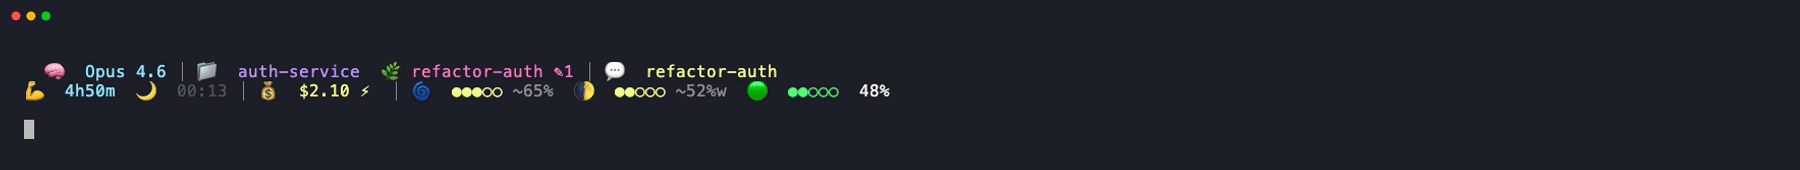
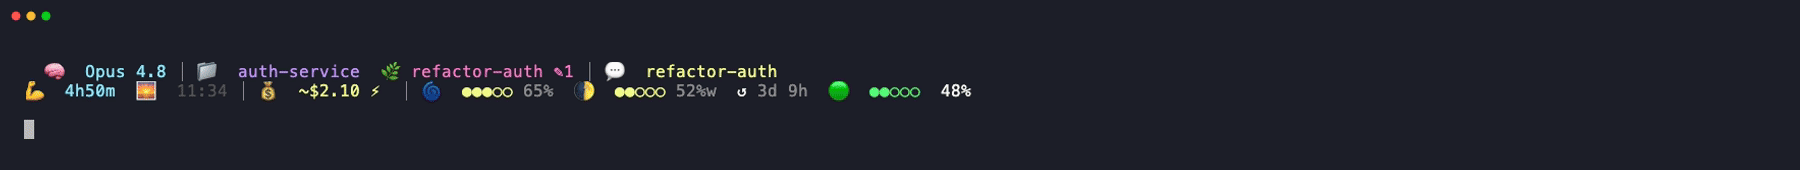
feat: live usage from rate_limits (v0.6.0) (#8)
* feat: read live usage from rate_limits instead of estimating

Claude Code exposes the real /usage data (5h and 7d windows) on the
statusline stdin via rate_limits. Read it directly instead of summing
local JSONL tokens against a guessed per-plan quota.

This drops the ~ approximation and the manual calibration step: the bars
now match /usage exactly, and the weekly reset is an exact countdown from
seven_day.resets_at. Removes compute_usage, the async cache and lockfiles,
the per-plan quotas, and the CCSL_SESSION_QUOTA_TOKENS, CCSL_WEEK_QUOTA_TOKENS
and CCSL_USAGE_TTL vars. CCSL_PLAN now only toggles the theoretical cost prefix.

Each window renders independently and is hidden when absent. Hardens
rendering along the way: JSON-derived fields are stripped of control
characters and printed with %s instead of %b to prevent terminal escape
injection, malformed input degrades to defaults, and the dot-bar builder
is shared between the usage and context segments.

* docs: regenerate demo gif and preview for v0.6.0

The loop now injects rate_limits into the mock JSON (real session/week
percentages and a weekly reset countdown) instead of the removed token
cache, and uses the current model name.

* chore: release v0.6.0

diff --git a/README.md b/README.md
@@ -33,7 +33,7 @@ Two lines — identity on top, metrics below. Long session names never push anyt
 - 🎯 **tasks** — pending/in-progress/done for the current session's `TodoWrite` list (`1⚙ 2✓`). Falls back to 📋 code markers (`TODO / FIXME / XXX / HACK`) when no session tasks exist
 - 🚀 **elapsed** — how long you've been at it, with an emoji that evolves every stage
 - 💰 **cost** — session spend, colored by tier. ⚡ flashes when it grows
-- 🌊 **plan usage** — session bar (🌊→🌀→🌪→⛈) and weekly bar (🌑→🌒→🌓→🌔→🌕) against your Max/Pro quota. Approximate, needs calibration per plan
+- 🌊 **plan usage** — session bar (🌊→🌀→🌪→⛈) and weekly bar (🌑→🌒→🌓→🌔→🌕) for your 5-hour and 7-day limits, plus a ↺ countdown to the weekly reset. These are the real numbers from `/usage`, read straight from Claude Code — no estimation, no calibration
 - 🟢 **context** — 5-dot usage bar for the context window
 - 🌆 **clock** — wall time, with a different icon for dawn / day / evening / night
 
@@ -69,32 +69,15 @@ chmod +x ~/.claude/statusline.sh
 
 ### On a Claude subscription?
 
-Pick the value that matches your plan. The prefix `~` in the cost signals "theoretical" (you pay a flat fee, not per token), and the usage bars get the right quota baseline:
+The usage bars need no setup — they read the live `rate_limits` Claude Code hands the statusline (the same data behind `/usage`), so the percentages match exactly. They appear once you're on a Pro/Max subscription and have made at least one request in the session.
 
-| Your plan | `CCSL_PLAN` | Session baseline | Weekly baseline |
-|---|---|---|---|
-| Pro ($20/mo) | `pro` | 50M tokens | 325M tokens |
-| Max 5x ($100/mo) | `max5` | 250M tokens | 1.625B tokens |
-| Max 20x ($200/mo) | `max20` | 1B tokens | 6.5B tokens |
+The only thing left to set is `CCSL_PLAN`, which marks the cost as "theoretical" with a `~$…` prefix (on a subscription you pay a flat fee, not per token):
 
 ```json
 "command": "CCSL_PLAN=max5 /bin/bash ~/.claude/statusline.sh"
 ```
 
-> **A note on the numbers.** Anthropic publishes plan limits as relative multipliers (Max 5x / Max 20x) and as ranges of Sonnet-hours per week — not as exact token quotas. The baselines above respect the 5x / 20x ratio officially, but the absolute numbers are calibrated best-guesses. The bars show `~` to make this explicit. If yours don't match `/usage`, override them (see below).
->
-> Legacy note: `CCSL_PLAN=max` still works as an alias for `max5` for backwards compatibility.
-
-#### Calibrate against `/usage`
-
-1. Open `/usage` in Claude Code, note the session and weekly percentages
-2. Compare to what vibeline shows (e.g. vibeline says `~67%`, `/usage` says `53%`)
-3. Look up the raw tokens vibeline measured: `cat ~/.claude/cache/statusline/usage`
-4. Compute your real quota: `quota = tokens ÷ (real_pct / 100)`
-5. Lock it in:
-   ```json
-   "command": "CCSL_PLAN=max20 CCSL_SESSION_QUOTA_TOKENS=1000000000 CCSL_WEEK_QUOTA_TOKENS=6500000000 /bin/bash ~/.claude/statusline.sh"
-   ```
+Any of `pro`, `max5`, `max20` (or the legacy alias `max`) turns on the prefix; the value itself no longer changes the bars. Leave it at `api` (the default) if you pay per token and want the real dollar cost.
 
 ## Customize
 
@@ -133,18 +116,15 @@ Set any of these to `0` to hide that segment. Leave them alone to keep the defau
 | `CCSL_SHOW_ELAPSED` | `1` | evolving time emoji |
 | `CCSL_SHOW_CONTEXT` | `1` | context usage bar |
 | `CCSL_SHOW_CLOCK` | `1` | wall clock |
-| `CCSL_SHOW_USAGE` | `1` | 🌊 plan usage bars (session + week) |
-| `CCSL_PLAN` | `api` | `pro`, `max5`, or `max20` — unlocks cost prefix and usage bars (`max` is still accepted as alias for `max5`) |
-| `CCSL_SESSION_QUOTA_TOKENS` | auto | override 5h session token quota (calibrate vs `/usage`) |
-| `CCSL_WEEK_QUOTA_TOKENS` | auto | override weekly token quota |
-| `CCSL_USAGE_TTL` | `60` | seconds to cache usage aggregation |
+| `CCSL_SHOW_USAGE` | `1` | 🌊 plan usage bars (session + week) and ↺ weekly reset countdown |
+| `CCSL_PLAN` | `api` | `pro`, `max5`, or `max20` — adds the `~` theoretical prefix to the cost (`max` still works as an alias for `max5`) |
 | `CCSL_TODO_PATTERN` | `(TODO\|FIXME\|XXX\|HACK)` | regex of keywords to count |
 | `CCSL_TODO_TTL` | `60` | seconds to cache code marker count |
 | `CCSL_TASK_TTL` | `15` | seconds to cache session task read |
 | `CCSL_ACTIVITY_LINGER` | `3` | seconds ⚡ stays visible |
 | `CCSL_CACHE_DIR` | `~/.claude/cache/statusline` | cache location |
 | `CCSL_SESSIONS_DIR` | `~/.claude/sessions` | Claude Code session store |
-| `CCSL_PROJECTS_DIR` | `~/.claude/projects` | Claude Code projects store (read for token aggregation) |
+| `CCSL_PROJECTS_DIR` | `~/.claude/projects` | Claude Code projects store (read for the session task counter) |
 
 The model, folder, and git branch segments always show when relevant — they anchor line 1. If every variable on line 2 is set to `0`, the second line disappears and you get a single-line statusline.
 
@@ -209,10 +189,6 @@ Use ccstatusline if you want every possible number on screen. Use vibeline if yo
 ## Contributing
 
 See [CONTRIBUTING.md](CONTRIBUTING.md).
-
-## Credits
-
-Token-window aggregation over local JSONL was inspired by [ccusage](https://github.com/ryoppippi/ccusage) by [@ryoppippi](https://github.com/ryoppippi) — MIT-licensed. The math (rolling 5h session and 7-day windows, summing input + output + cache_creation + cache_read) follows their approach; vibeline reimplements it in Bash to stay dependency-free.
 
 ## License
 

diff --git a/CHANGELOG.md b/CHANGELOG.md
@@ -7,6 +7,21 @@ and this project adheres to [Semantic Versioning](https://semver.org/spec/v2.0.0
 
 ## [Unreleased]
 
+## [0.6.0] - 2026-06-13
+
+### Changed
+- Usage bars now read the real `rate_limits` Claude Code provides on stdin — the exact session (5h) and weekly (7d) percentages shown by `/usage`, with no estimation, no per-plan baselines and no `~` prefix. Replaces the previous approach of aggregating local JSONL token counts against a guessed quota. Requires a Claude Code version that exposes `rate_limits` to the statusline; the bars appear for Pro/Max subscribers after the first request in a session, and each window is shown independently when present.
+- Weekly reset is now an exact ↺ countdown derived from `rate_limits.seven_day.resets_at`, instead of being computed locally.
+
+### Removed
+- `CCSL_SESSION_QUOTA_TOKENS`, `CCSL_WEEK_QUOTA_TOKENS`, `CCSL_USAGE_TTL` — no longer needed now that usage comes from `/usage` directly. They are silently ignored if left in your `command`.
+
+### Security
+- Values read from the session JSON (session name, folder, branch) are now stripped of control characters and printed with `printf %s` instead of `%b`, so a crafted field can no longer inject ANSI escapes or extra lines into the terminal. Malformed input degrades to defaults instead of printing parser errors.
+
+### Compatibility
+- `CCSL_PLAN` keeps working but now only toggles the theoretical `~` cost prefix; its value no longer affects the usage bars.
+
 ## [0.5.0] - 2026-04-16
 
 ### Added
@@ -77,7 +92,8 @@ and this project adheres to [Semantic Versioning](https://semver.org/spec/v2.0.0
 - Env var toggles for every segment
 - Interactive installer with settings.json auto-update
 
-[Unreleased]: https://github.com/zeroblack/vibeline/compare/v0.5.0...HEAD
+[Unreleased]: https://github.com/zeroblack/vibeline/compare/v0.6.0...HEAD
+[0.6.0]: https://github.com/zeroblack/vibeline/compare/v0.5.0...v0.6.0
 [0.5.0]: https://github.com/zeroblack/vibeline/compare/v0.4.0...v0.5.0
 [0.4.0]: https://github.com/zeroblack/vibeline/compare/v0.3.0...v0.4.0
 [0.3.0]: https://github.com/zeroblack/vibeline/compare/v0.2.1...v0.3.0
